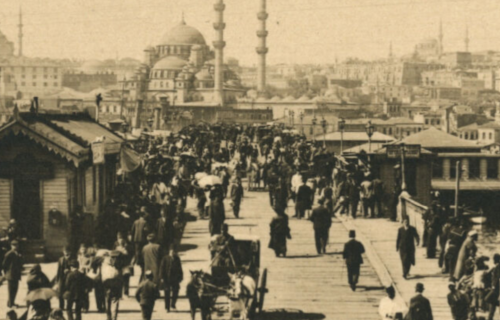
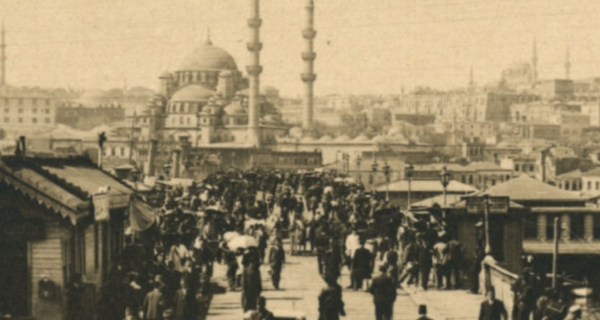
scale images, card order change, title fix

diff --git a/html/css/style.css b/html/css/style.css
@@ -222,7 +222,6 @@ nav.navbar .dropdown-item:active {
 
 .card-title {
     color: whitesmoke;
-    margin-top: 1.5rem;
     font-size: 2rem;
     font-weight: bold;
     line-height: 1.2;
